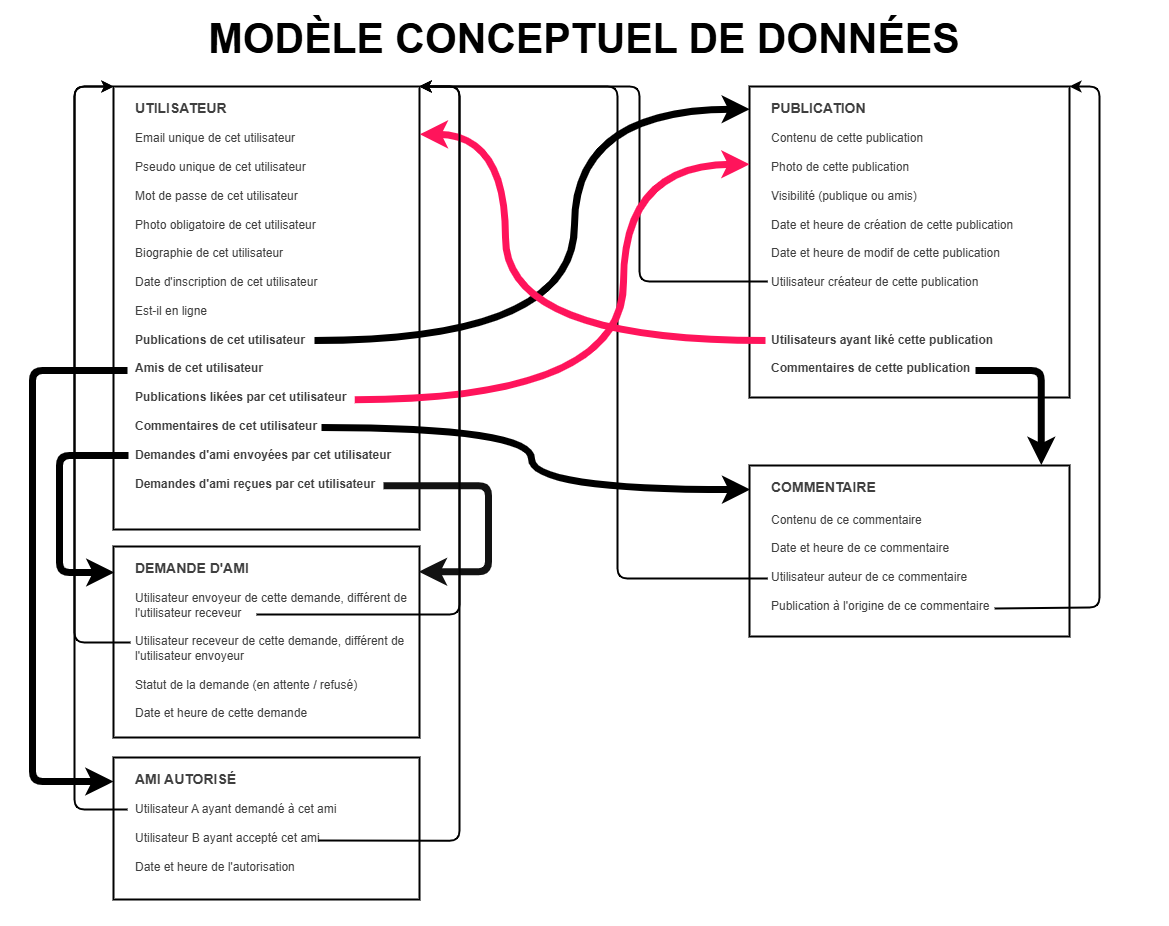
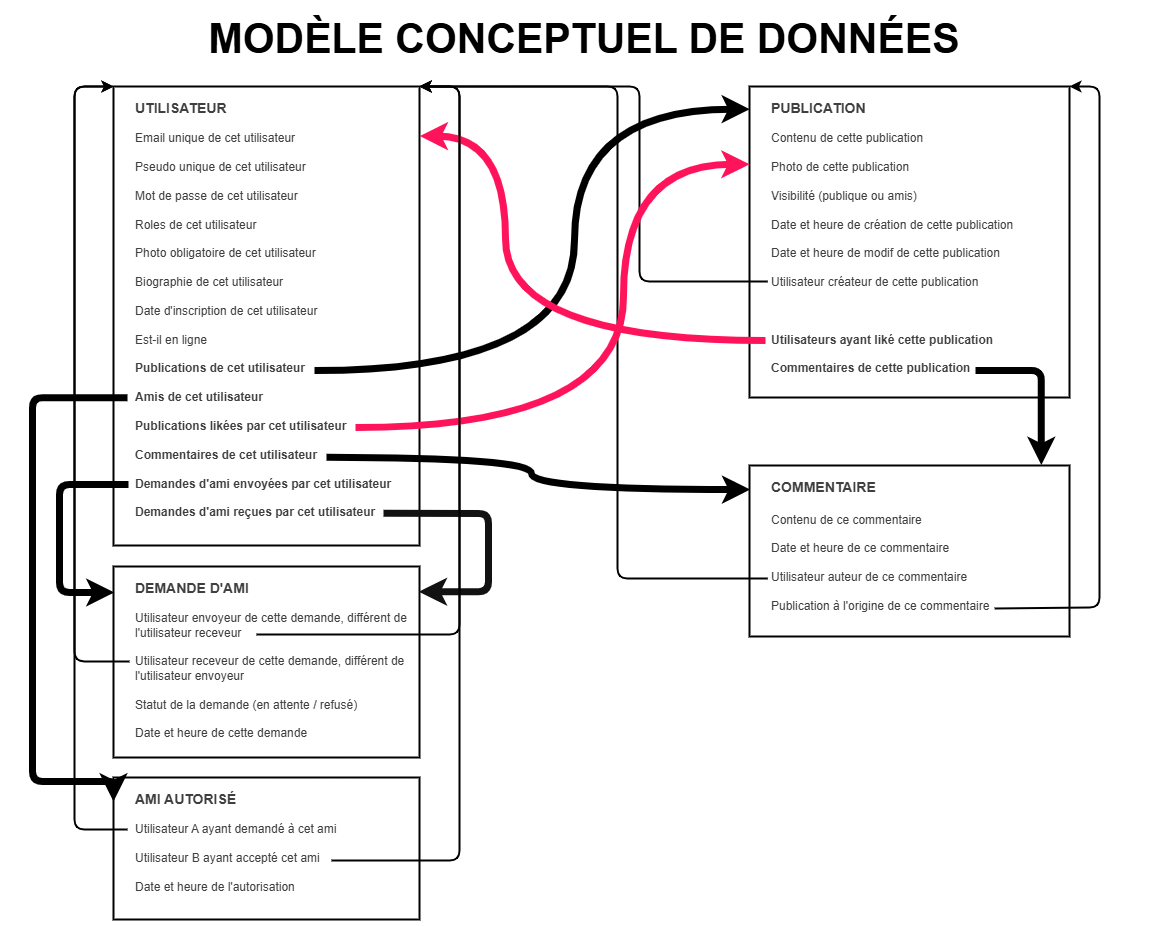
registre: création du système d'inscription et upload d'image

diff --git a/src/Form/RegistrationFormType.php b/src/Form/RegistrationFormType.php
@@ -1,0 +1,84 @@
+<?php
+
+namespace App\Form;
+
+use App\Entity\Utilisateur;
+use Symfony\Component\Form\AbstractType;
+use Symfony\Component\Form\Extension\Core\Type\CheckboxType;
+use Symfony\Component\Form\Extension\Core\Type\EmailType;
+use Symfony\Component\Form\Extension\Core\Type\FileType;
+use Symfony\Component\Validator\Constraints\File;
+use Symfony\Component\Form\Extension\Core\Type\PasswordType;
+use Symfony\Component\Form\FormBuilderInterface;
+use Symfony\Component\OptionsResolver\OptionsResolver;
+use Symfony\Component\Validator\Constraints\IsTrue;
+use Symfony\Component\Validator\Constraints\Length;
+use Symfony\Component\Validator\Constraints\NotBlank;
+
+class RegistrationFormType extends AbstractType
+{
+    public function buildForm(FormBuilderInterface $builder, array $options): void
+    {
+        $builder
+            ->add('pseudo')
+            ->add('email', EmailType::class, [
+                'label' => 'Adresse email',
+                'attr' => [
+                    'placeholder' => 'exemple@voisin.fr'
+                ]
+            ])
+            ->add('plainPassword', PasswordType::class, [
+                                // instead of being set onto the object directly,
+                // this is read and encoded in the controller
+                'mapped' => false,
+                'attr' => ['autocomplete' => 'new-password'],
+                'constraints' => [
+                    new NotBlank(
+                        message: 'Veuillez saisir un mot de passe.',
+                    ),
+                    new Length(
+                        min: 6,
+                        minMessage: 'Votre mot de passe doit comporter au moins {{ limit }} caractères.',
+                        // max length allowed by Symfony for security reasons
+                        max: 4096,
+                    ),
+                ],
+            ])
+            ->add('photo', FileType::class, [
+                'label' => 'Photo de profil (Obligatoire)',
+                'required' => true, // Rend le champ graphiquement obligatoire en HTML
+                'constraints' => [
+                    // 1. On force la présence du fichier
+                    new NotBlank([
+                        'message' => 'Veuillez sélectionner une photo de profil.',
+                    ]),
+                    // 2. On valide la taille et le format du vrai fichier physique
+                    new File([
+                        'maxSize' => '200k',
+                        'mimeTypes' => [
+                            'image/jpeg',
+                            'image/png',
+                            'image/webp',
+                        ],
+                        'mimeTypesMessage' => 'Veuillez télécharger une image valide (Max 200 Ko, JPG, PNG ou WEBP).',
+                    ])
+                ],
+            ])
+            ->add('agreeTerms', CheckboxType::class, [
+                                'mapped' => false,
+                'constraints' => [
+                    new IsTrue(
+                        message: 'Vous acceptez nos conditions.',
+                    ),
+                ],
+            ])
+        ;
+    }
+
+    public function configureOptions(OptionsResolver $resolver): void
+    {
+        $resolver->setDefaults([
+            'data_class' => Utilisateur::class,
+        ]);
+    }
+}

diff --git a/src/Controller/RegistrationController.php b/src/Controller/RegistrationController.php
@@ -1,0 +1,73 @@
+<?php
+
+namespace App\Controller;
+
+use App\Entity\Utilisateur;
+use App\Form\RegistrationFormType;
+use Doctrine\ORM\EntityManagerInterface;
+use Symfony\Bundle\FrameworkBundle\Controller\AbstractController;
+use Symfony\Component\HttpFoundation\Request;
+use Symfony\Component\HttpFoundation\Response;
+use Symfony\Component\PasswordHasher\Hasher\UserPasswordHasherInterface;
+use Symfony\Component\Routing\Attribute\Route;
+use Symfony\Contracts\Translation\TranslatorInterface;
+
+class RegistrationController extends AbstractController
+{
+    #[Route('/inscription', name: 'app_inscription')]
+    public function register(Request $request, UserPasswordHasherInterface $userPasswordHasher, EntityManagerInterface $entityManager): Response
+    {
+        $user = new Utilisateur();
+        $form = $this->createForm(RegistrationFormType::class, $user);
+        $form->handleRequest($request);
+
+        if ($form->isSubmitted() && $form->isValid()) {
+            // 1. GESTION DU TÉLÉCHARGEMENT DE LA PHOTO OBLIGATOIRE
+            /** @var UploadedFile $imageFile */
+            $imageFile = $form->get('photo')->getData();
+
+            if ($imageFile) {
+                // Créer un nom unique (ex: 64b73f82.jpg) pour éviter les doublons
+                $nomUnique = uniqid() . '.' . $imageFile->guessExtension();
+
+                // Déplacer physiquement la photo dans le dossier public/uploads/ 
+                $imageFile->move(
+                    $this->getParameter('images_directory') . '/public/uploads',
+                    $nomUnique
+                );
+
+                // Enregistrer le nom du fichier dans la case "photo" de l'utilisateur
+                $user->setPhoto($nomUnique);
+            }
+
+            // 2. HACHAGE DU MOT DE PASSE SECRET
+            /** @var string $plainPassword */
+            $plainPassword = $form->get('plainPassword')->getData();
+
+            // encode the plain password
+            $user->setPassword($userPasswordHasher->hashPassword($user, $plainPassword));
+
+            // 3. ENREGISTREMENT AUTOMATIQUE DES AUTRES CHAMPS
+            $user->setDateInscription(new \DateTimeImmutable());
+            $user->setEstEnLigne(false); // L'utilisateur n'est pas encore connecté
+            $user->setRoles(['ROLE_USER']); // Badge de membre standard obligatoire
+
+            // Préparer l'insertion en base de données SQL
+            $entityManager->persist($user);
+            // Exécuter les requêtes et l'envoi des données
+            $entityManager->flush(); // enregistre en bdd
+
+            /* Faites tout ce dont vous avez besoin ici, comme envoyer un e-mail */
+
+            // Message flash de succès pour le jury
+            $this->addFlash('success', 'Votre compte a bien été créé ! Vous pouvez maintenant vous connecter.');
+
+            // Redirection obligatoire vers la page de connexion
+            return $this->redirectToRoute('app_connexion');
+        }
+
+        return $this->render('registration/register.html.twig', [
+            'registrationForm' => $form,
+        ]);
+    }
+}

diff --git a/src/Entity/Utilisateur.php b/src/Entity/Utilisateur.php
@@ -7,20 +7,35 @@ use Doctrine\Common\Collections\ArrayCollection;
 use Doctrine\Common\Collections\Collection;
 use Doctrine\DBAL\Types\Types;
 use Doctrine\ORM\Mapping as ORM;
+use Symfony\Bridge\Doctrine\Validator\Constraints\UniqueEntity;
 use Symfony\Component\Security\Core\User\PasswordAuthenticatedUserInterface;
 use Symfony\Component\Security\Core\User\UserInterface;
+use Symfony\Component\Validator\Constraints as Assert;
 
+// Indique à Symfony que cette classe sert à fabriquer des objets "Utilisateur" dans la base de données
 #[ORM\Entity(repositoryClass: UtilisateurRepository::class)]
+
+// Règle de sécurité SQL : Interdit d'avoir deux utilisateurs avec la même adresse email en base de données
 #[ORM\UniqueConstraint(name: 'UNIQ_IDENTIFIER_EMAIL', fields: ['email'])]
+
+// Règle de sécurité SQL : Interdit également d'avoir deux utilisateurs avec le même pseudo
 #[ORM\UniqueConstraint(name: 'UNIQ_IDENTIFIER_PSEUDO', fields: ['pseudo'])]
+
+// Barrière de contrôle PHP : Si un visiteur tente de s'inscrire avec un email déjà pris, le formulaire s'arrête et affiche ce message d'erreur poli sans faire planter le site
+#[UniqueEntity(fields: ['email'], message: 'Il existe déjà un compte de voisin avec cette adresse email.')]
+
+// Déclaration de l'identité : explique à Symfony que cette classe représente un "Vrai Membre" (UserInterface) capable de se connecter de manière sécurisée avec un mot de passe (PasswordAuthenticatedUserInterface).
 class Utilisateur implements UserInterface, PasswordAuthenticatedUserInterface
 {
+
     #[ORM\Id]
     #[ORM\GeneratedValue]
     #[ORM\Column]
     private ?int $id = null;
 
-    #[ORM\Column(length: 180)]
+    #[ORM\Column(length: 255, unique: true)]
+    #[Assert\NotBlank(message: "L'adresse email est obligatoire.")]
+    #[Assert\Email(message: "L'adresse email n'est pas valide (il manque un @ ou l'extension).")]
     private ?string $email = null;
 
     /**
@@ -35,10 +50,15 @@ class Utilisateur implements UserInterface, PasswordAuthenticatedUserInterface
     #[ORM\Column]
     private ?string $password = null;
 
-    #[ORM\Column(length: 50, unique: true)]
+    #[ORM\Column(length: 255, unique: true)]
+    #[Assert\NotBlank(message: "Le pseudo est obligatoire.")]
     private ?string $pseudo = null;
 
     #[ORM\Column(length: 255)]
+    /* #[Assert\File(
+        maxSize: '200k',
+        extensions: ['jpg', 'png', 'webp'],
+        extensionsMessage: 'Veuillez télécharger un fichier valide (Max 200 Ko, JPG / PNG / WEBP.')] */
     private ?string $photo = null;
 
     #[ORM\Column(type: Types::TEXT, nullable: true)]
@@ -129,7 +149,7 @@ class Utilisateur implements UserInterface, PasswordAuthenticatedUserInterface
      */
     public function getUserIdentifier(): string
     {
-        return (string) $this->email;
+        return (string) $this->pseudo;
     }
 
     /**

diff --git a/src/Repository/UtilisateurRepository.php b/src/Repository/UtilisateurRepository.php
@@ -14,9 +14,7 @@ use Symfony\Component\Security\Core\User\UserInterface;
 /**
  * @extends ServiceEntityRepository<Utilisateur>
  */
-class UtilisateurRepository extends ServiceEntityRepository implements PasswordUpgraderInterface, UserLoaderInterface
-
-
+class UtilisateurRepository extends ServiceEntityRepository implements UserLoaderInterface, PasswordUpgraderInterface
 {
     public function __construct(ManagerRegistry $registry)
     {
